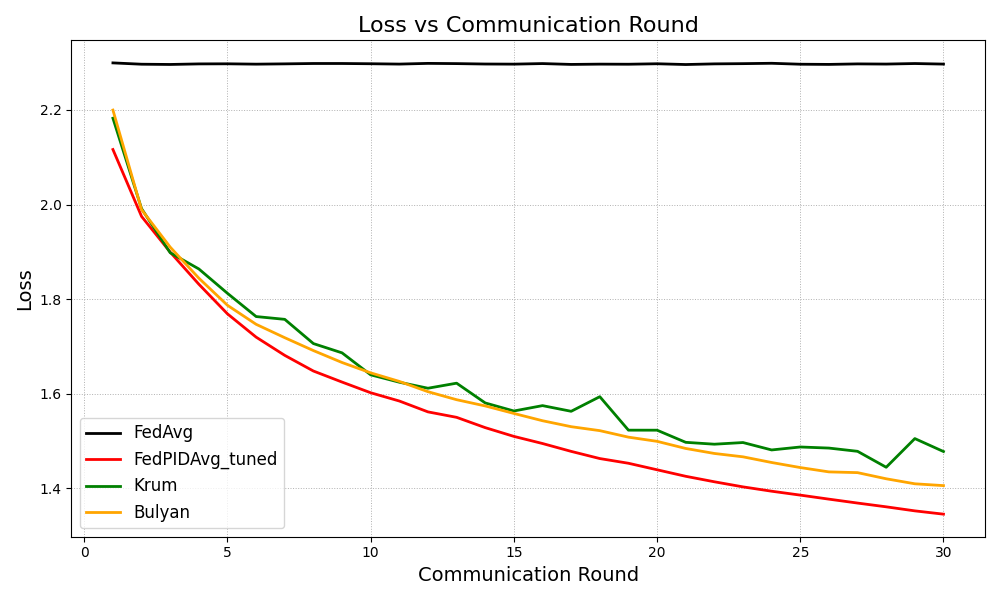
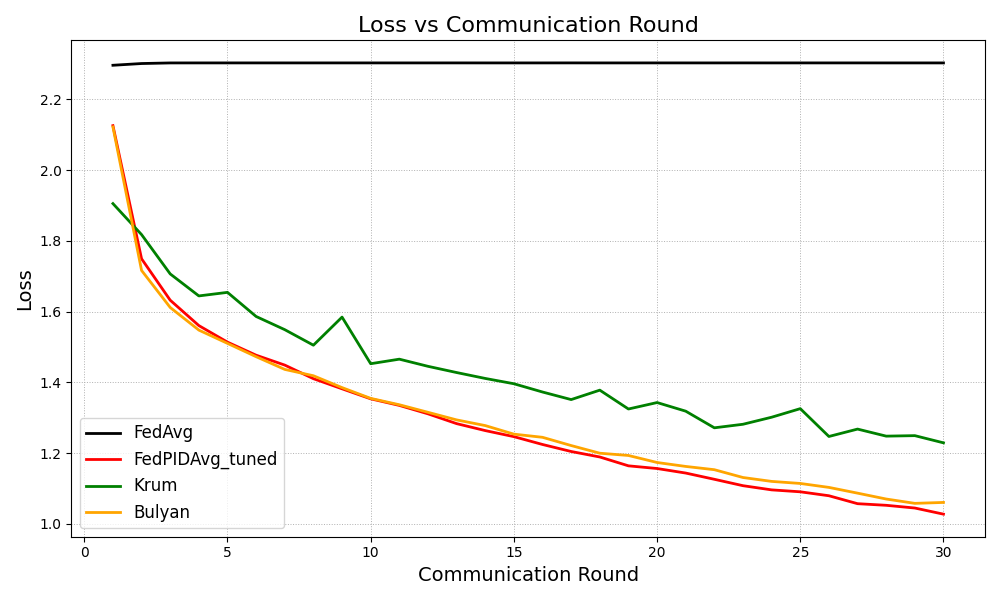
better cnn

diff --git a/pid/pid/task.py b/pid/pid/task.py
@@ -14,7 +14,7 @@ from flwr_datasets import FederatedDataset  # Load federated CIFAR-10 dataset
 from flwr_datasets.partitioner import IidPartitioner  # IID partitioner for data splitting
 
 # Image transformation utilities
-from torchvision.transforms import Compose, Normalize, ToTensor
+from torchvision.transforms import Compose, Normalize, ToTensor, RandomCrop, RandomHorizontalFlip
 
 # Global cache for the federated dataset to avoid repeated downloads
 fds = None  # Cache FederatedDataset instance across calls
@@ -22,40 +22,45 @@ fds = None  # Cache FederatedDataset instance across calls
 
 class Net(nn.Module):
     """
-    Simple CNN model adapted from 'PyTorch: A 60 Minute Blitz'.
+    Stronger CNN model for CIFAR-10.
     Architecture:
-      - Conv2d -> ReLU -> MaxPool
-      - Conv2d -> ReLU -> MaxPool
-      - Flatten -> FC -> ReLU -> FC -> ReLU -> FC
+      - Conv2d -> BatchNorm -> ReLU -> MaxPool
+      - Conv2d -> BatchNorm -> ReLU -> MaxPool
+      - Conv2d -> BatchNorm -> ReLU -> MaxPool
+      - Flatten -> Dropout -> FC -> ReLU -> FC
     Output for 10 classes.
     """
     def __init__(self):
         super(Net, self).__init__()
-        # First convolutional layer: in_channels=3 (RGB), out_channels=6, kernel_size=5
-        self.conv1 = nn.Conv2d(3, 6, 5)
-        # Max-pooling layer with 2x2 window
+        # First convolutional block: 3 input channels to 32 output channels
+        self.conv1 = nn.Conv2d(3, 32, kernel_size=3, padding=1)
+        self.bn1 = nn.BatchNorm2d(32)
+        # Second convolutional block: 32 to 64 output channels
+        self.conv2 = nn.Conv2d(32, 64, kernel_size=3, padding=1)
+        self.bn2 = nn.BatchNorm2d(64)
+        # Third convolutional block: 64 to 128 output channels
+        self.conv3 = nn.Conv2d(64, 128, kernel_size=3, padding=1)
+        self.bn3 = nn.BatchNorm2d(128)
+        # Max-pooling and dropout
         self.pool = nn.MaxPool2d(2, 2)
-        # Second convolutional layer: in_channels=6, out_channels=16, kernel_size=5
-        self.conv2 = nn.Conv2d(6, 16, 5)
+        self.dropout = nn.Dropout(0.25)
         # Fully connected layers
-        # Input features = 16 * 5 * 5 after two poolings on 32x32 input
-        self.fc1 = nn.Linear(16 * 5 * 5, 120)
-        self.fc2 = nn.Linear(120, 84)
-        # Final output layer for 10 classes
-        self.fc3 = nn.Linear(84, 10)
+        self.fc1 = nn.Linear(128 * 4 * 4, 256)
+        self.fc2 = nn.Linear(256, 10)
 
     def forward(self, x):
-        # Pass input through conv => ReLU => pool
-        x = self.pool(F.relu(self.conv1(x)))
-        # Pass through second conv => ReLU => pool
-        x = self.pool(F.relu(self.conv2(x)))
-        # Flatten tensor to (batch_size, features)
-        x = x.view(-1, 16 * 5 * 5)
-        # Fully connected layers with ReLU activations
+        # Pass input through first conv block
+        x = self.pool(F.relu(self.bn1(self.conv1(x))))
+        # Second conv block
+        x = self.pool(F.relu(self.bn2(self.conv2(x))))
+        # Third conv block
+        x = self.pool(F.relu(self.bn3(self.conv3(x))))
+        # Flatten tensor
+        x = x.view(-1, 128 * 4 * 4)
+        # Dropout and FC layers
+        x = self.dropout(x)
         x = F.relu(self.fc1(x))
-        x = F.relu(self.fc2(x))
-        # Return raw logits for final classification
-        return self.fc3(x)
+        return self.fc2(x)
 
 
 def load_data(partition_id: int, num_partitions: int):
@@ -82,10 +87,12 @@ def load_data(partition_id: int, num_partitions: int):
     # Split into train/test
     partition_train_test = partition.train_test_split(test_size=0.2, seed=42)
 
-    # Define transformations: convert to tensor and normalize to [-1,1]
+    # Define transformations: random crop, flip, convert to tensor, and normalize to [-1,1]
     pytorch_transforms = Compose([
-        ToTensor(),
-        Normalize((0.5, 0.5, 0.5), (0.5, 0.5, 0.5)),
+        RandomCrop(32, padding=4),              # Randomly crop image with padding
+        RandomHorizontalFlip(),                 # Flip image horizontally 50% of the time
+        ToTensor(),                             # Convert image to PyTorch tensor
+        Normalize((0.5, 0.5, 0.5), (0.5, 0.5, 0.5)),  # Normalize RGB channels to [-1, 1]
     ])
 
     def apply_transforms(batch):

diff --git a/pid/pid_tuner.py b/pid/pid_tuner.py
@@ -10,9 +10,9 @@ from pid.server_app import FedPIDAvg  # Custom PID-based aggregation strategy
 
 def objective(trial):
     # Suggest PID hyperparameters for this trial
-    Kp = trial.suggest_float("Kp", 0.0, 0.08)  # Proportional gain
-    Ki = trial.suggest_float("Ki", 0.0, 0.08)   # Integral gain
-    Kd = trial.suggest_float("Kd", 0.0, 0.001)   # Derivative gain
+    Kp = trial.suggest_float("Kp", 0.0, 0.03)  # Proportional gain
+    Ki = trial.suggest_float("Ki", 0.0, 0.03)   # Integral gain
+    Kd = trial.suggest_float("Kd", 0.0, 0.01)   # Derivative gain
 
     # Obtain initial global model parameters from a fresh network
     initial_parameters = ndarrays_to_parameters(get_weights(Net()))

diff --git a/pid/pid/client_app.py b/pid/pid/client_app.py
@@ -3,7 +3,7 @@ from flwr.client import ClientApp, NumPyClient  # Flower client interfaces
 from flwr.common import Context  # Flower context for client configuration
 from pid.task import Net, get_weights, load_data, set_weights, test, train  # Model and data utilities
 
-NUM_MALICIOUS_CLIENTS = 0  # Number of clients simulating malicious behavior
+NUM_MALICIOUS_CLIENTS = 6  # Number of clients simulating malicious behavior
 
 class FlowerClient(NumPyClient):
     """

diff --git a/pid/pid/server_app.py b/pid/pid/server_app.py
@@ -11,7 +11,7 @@ import torch
 
 # Filename for logging rounds detected as malicious
 MALICIOUS_ROUNDS_LOG = "malicious_rounds.txt"
-NUM_MALICIOUS_CLIENTS = 0  # Number of clients to simulate as malicious
+NUM_MALICIOUS_CLIENTS = 6  # Number of clients to simulate as malicious
 
 class FedPIDAvg(FedAvg):
     """

diff --git a/pid/run_all_strategies.py b/pid/run_all_strategies.py
@@ -12,7 +12,7 @@ import os
 # Number of clients and tolerated malicious clients
 NUM_CLIENTS = 30
 NUM_ROUNDS = 30
-NUM_MALCIOUS_CLIENTS = 0
+NUM_MALCIOUS_CLIENTS = 6
 
 # Define strategies to compare
 STRATEGIES = {
